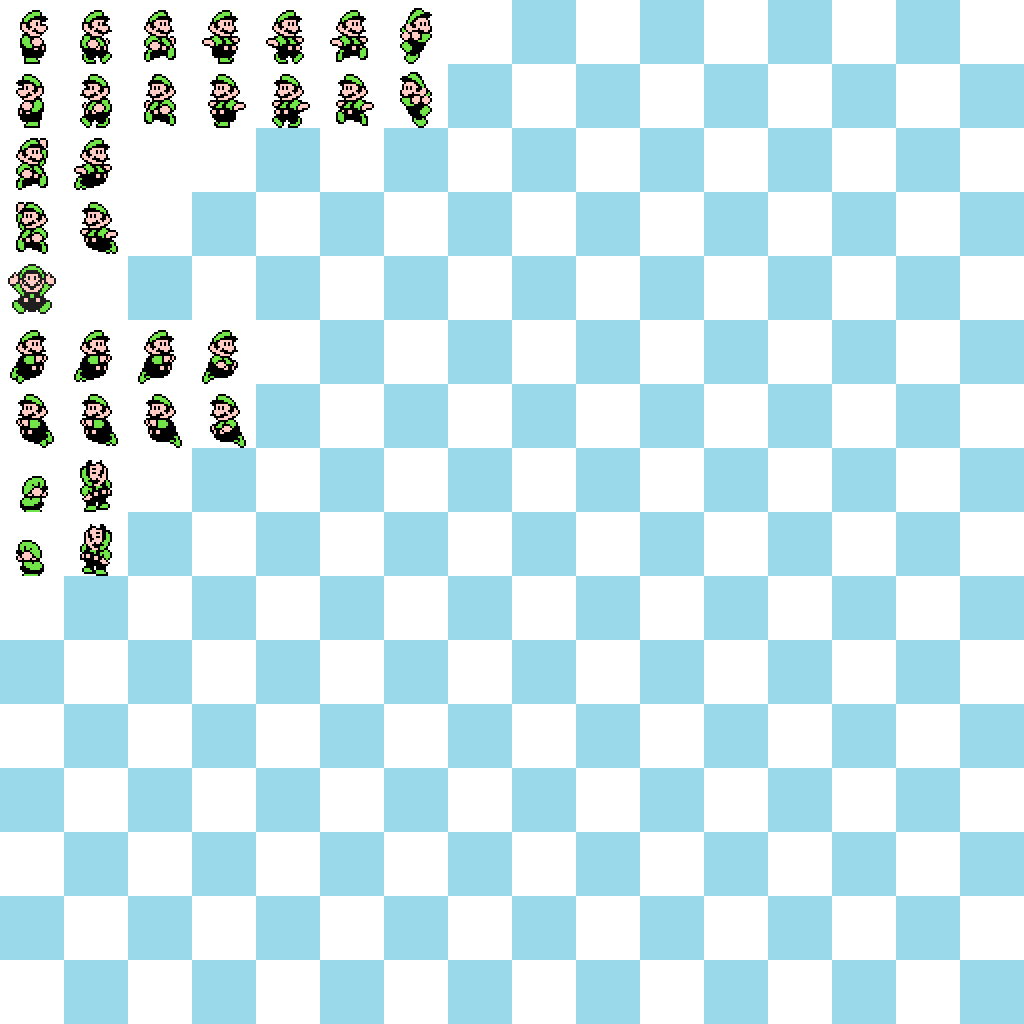
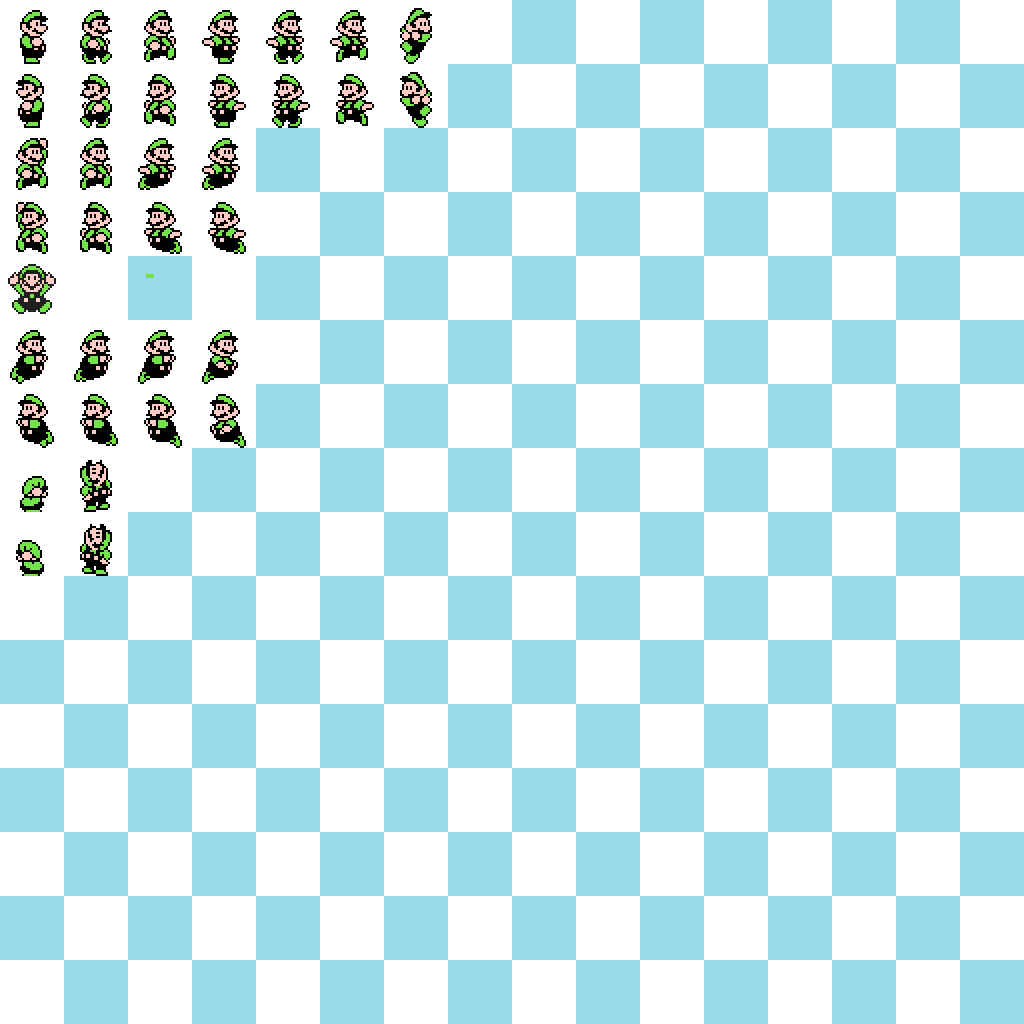
Add files via upload

Changed region(s): [[0.0625, 0.125, 0.25, 0.25]]

diff --git a/Characters.js b/Characters.js
@@ -87,9 +87,9 @@ HNEGA:-16,
 },
 {
 Name:"Mario of SMB3" ,
-Img :["characters/Mario3.png","characters/Luigi3.png","characters/MarioRaccon.png",/*"characters/LuigiRaccon.png",*/
-"characters/MarioTanoky.png","characters/MarioFrog.png","characters/MarioHammerBros.png","characters/Toad3.png"],
-Grid:[64,64,/*static*/0,/*walk*/2,/*run*/3,/*brek*/6,/*jumpUP*/1,/*jumpDOWN*/0,/*jump+run*/1,/*swim*/4,/*death*/0],
+Img :["characters/Mario3.png","characters/Luigi3.png","characters/MarioRaccon.png","characters/MarioTanoky.png",
+"characters/MarioFrog.png","characters/MarioHammerBros.png","characters/Toad3.png","characters/Toaded3.png"],
+Grid:[64,64,/*static*/0,/*walk*/2,/*run*/3,/*brek*/6,/*jumpUP*/1,/*jumpDOWN*/1,/*jump+run*/2,/*swim*/4,/*death*/0],
 width:32,
 height:54,
 WNEGA:-16,
